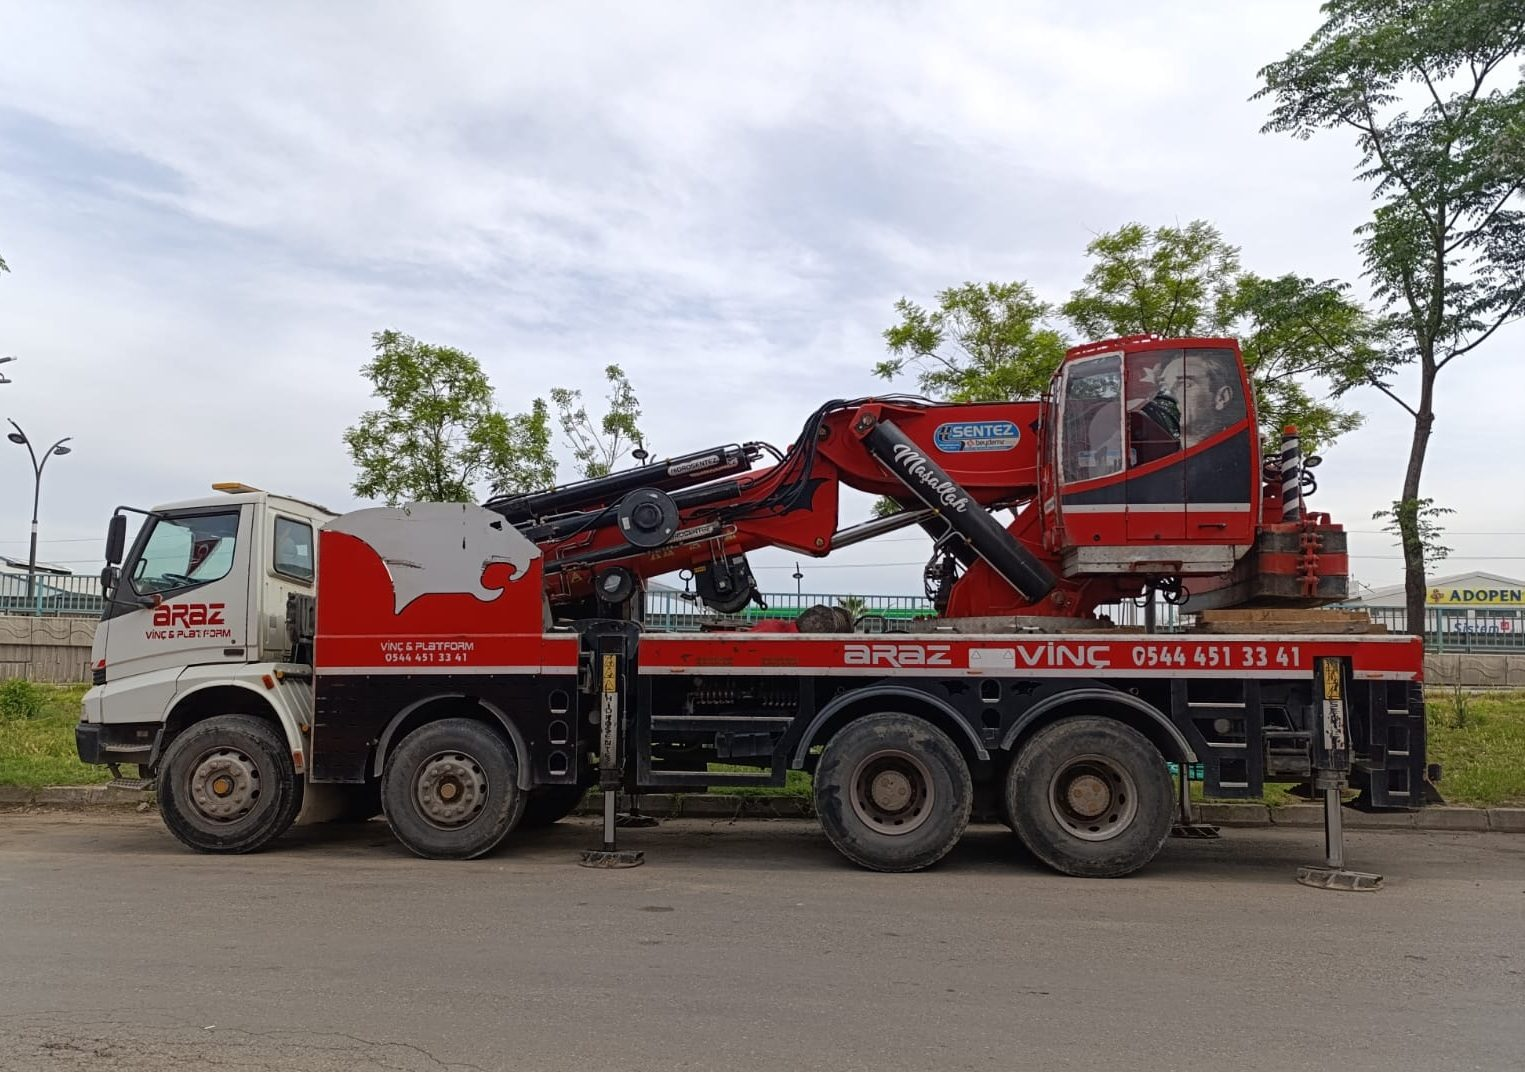
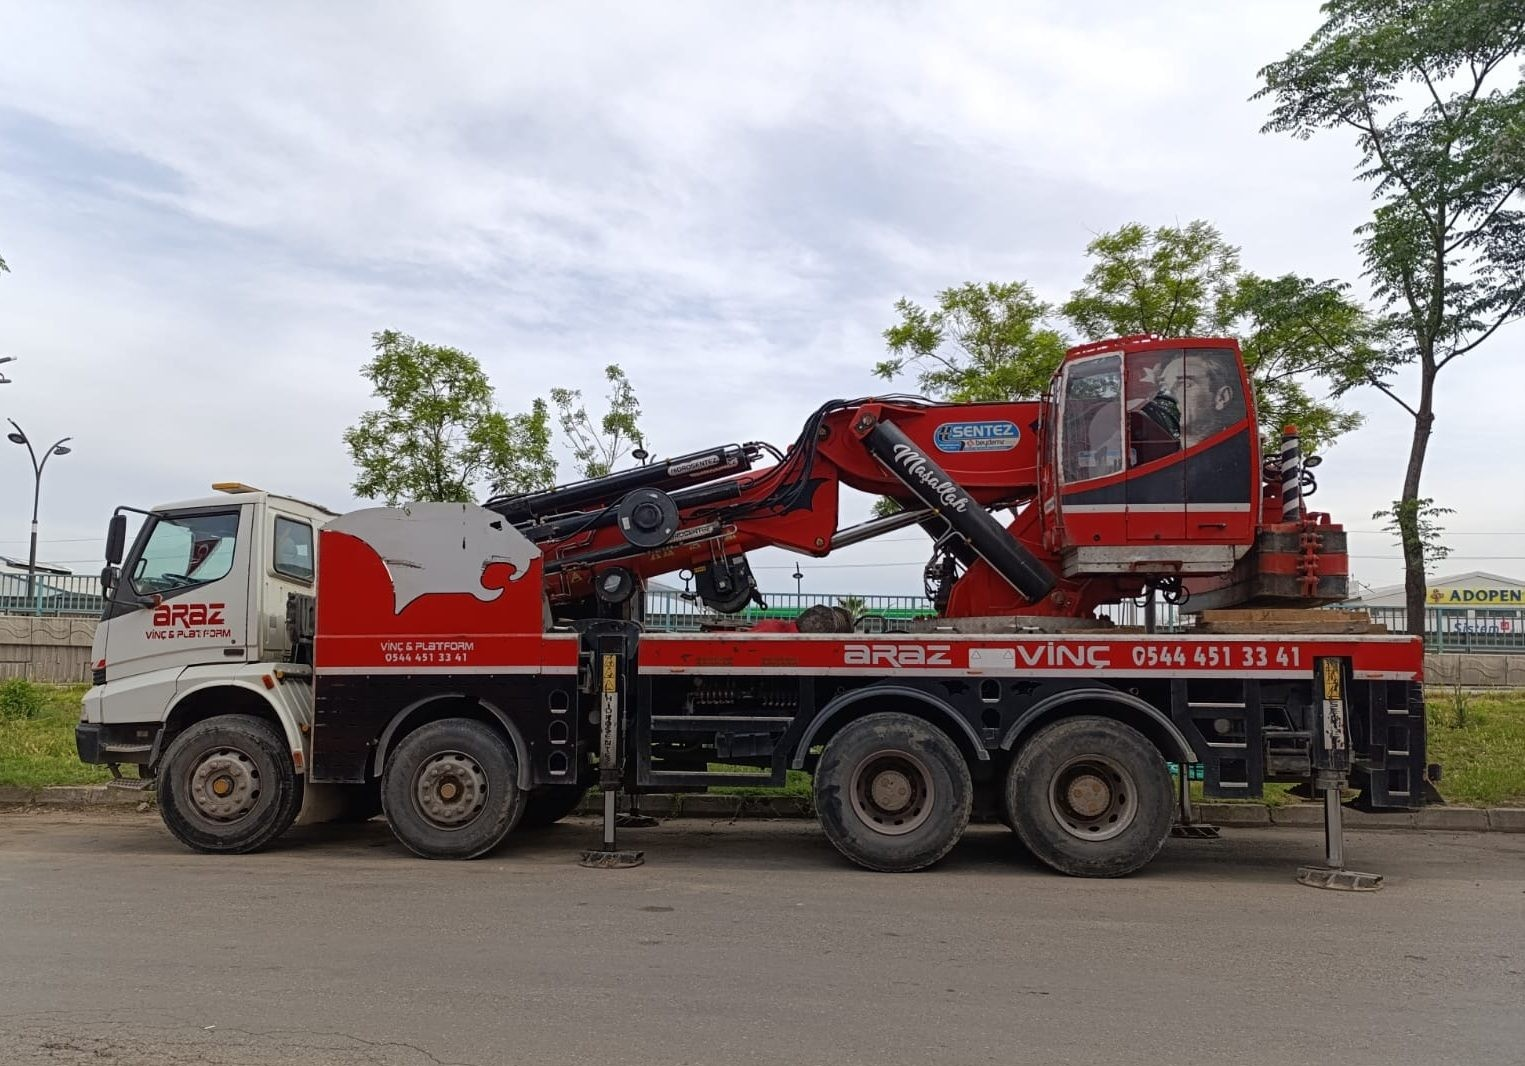
fix: crop bottom white strip from hero machine image and optimize container fit

Changed region(s): [[0.0, 0.031, 1.0, 0.8358], [0.0, 0.9597, 1.0, 1.0], [0.0, 0.4024, 0.0616, 0.4644]]

diff --git a/client/src/pages/Home.tsx b/client/src/pages/Home.tsx
@@ -160,9 +160,15 @@ export default function Home() {
                 </div>
               </div>
             </div>
-            <div className="relative h-96 md:h-full">
-              <div className="absolute inset-0 bg-gradient-to-t from-orange-600/20 to-transparent rounded-2xl"></div>
-              <img src="/araz-vinc-machine.webp" alt="Araz Vinç Makinası" className="rounded-2xl shadow-2xl w-full h-full object-cover hover:scale-105 transition-transform duration-500" fetchPriority="high" />
+            <div className="relative h-96 md:h-full flex items-center justify-center">
+              <div className="relative w-full h-full overflow-hidden rounded-2xl shadow-2xl border border-slate-700/50 bg-slate-900">
+                <img
+                  src="/araz-vinc-machine.webp"
+                  alt="Araz Vinç 55 Tonluk Hiab ve Mobil Vinç"
+                  className="w-full h-full object-cover rounded-2xl hover:scale-105 transition-transform duration-500"
+                  fetchPriority="high"
+                />
+              </div>
             </div>
           </div>
         </div>
